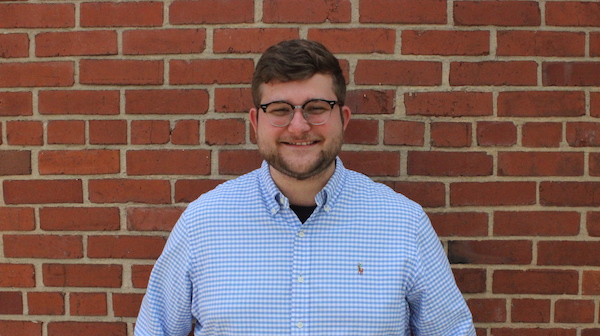
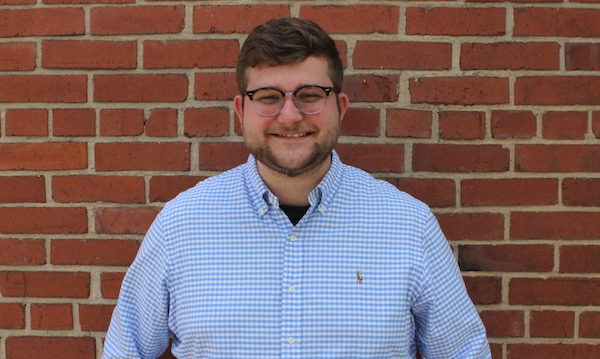
updates about page content

diff --git a/core/templates/about.html b/core/templates/about.html
@@ -46,79 +46,56 @@
 </div>
 <div class="flex">
     <div class="headshot-box">
-        <div class="tc black">
+        <div class="tc black mb4">
             <div class="body-headers mt4">Bailey Costin</div>
             <p class="sub-header i">Political science nerd, outdoors enthusiast, software developer</p>
-            <p class="aboutbody-content pr5 pl5">Lorem ipsum dolor sit amet, his ei modo unum liber. Cu modo invidunt eos, per alienum laboramus cu, an per probo omnes saepe. Te quas admodum patrioque qui, nibh autem per at, te vero sonet utinam qui. Et est timeam impedit fuisset. Falli tritani accommodare sed id, velit impedit vel ex. Cu vim indoctum corrumpit constituto, euismod recteque consequat eum et. Dicunt principes urbanitas sed ut, an impedit suscipit vis, ad pri adhuc veniam.</p>
-            <p class="aboutbody-content i">Only album I'd take to a deserted island:</p>
-            <p class="bio-answer">good kid, m.A.A.d city - Kendrick Lamar</p>
-            <p class="aboutbody-content i">Prefers coffee:</p>
-            <p class="bio-answer">black</p>
-            <p class="body-content i">Favorite president:</p>
-            <p class="bio-answer">Theodore Roosevelt </p>
+            <p class="aboutbody-content pr5 pl5">Bailey is graduate of UNC Chapel Hill and Momentum’s full-time immersive program. Prior to enrolling in Momentum, he was a senior paralegal at a law firm in Chapel Hill. He was drawn to programming because he has a passion for problem solving and wanted to enhance his ability to make a real-world impact. When he is not in front of his computer, he enjoys spending his time traveling and hiking.</p>
             <a href="https://github.com/bdcostin"><img class="github" src="{% static '/img/GitHub.png' %}" alt="An image of the GitHub logo."/></a>
             <a href="https://www.linkedin.com/in/bailey-costin-7745b8179/"><img class="linked-in" src="{% static '/img/linked-in.png' %}" alt="An image of the Linked-In logo."/></a>
         </div>
     </div>
     <div class="headshot project" id="project01">
-        <a href="https://www.linkedin.com/in/bailey-costin-7745b8179/"><img src="{% static '/img/Bailey.jpg' %}" alt="An image of Bailey Costin."/></a>
+        <a href="https://www.linkedin.com/in/bailey-costin-7745b8179/"><img src="{% static '/img/bailey2.jpg' %}" alt="An image of Bailey Costin."/></a>
     </div>
 </div>
 <div class="flex">
     <div class="headshot project" id="project02">
-        <a href="https://www.linkedin.com/in/david-kirk-525813181/"><img src="{% static '/img/david-kirk.jpg' %}" alt="An image of David Kirk."/></a>
+        <a href="https://www.linkedin.com/in/david-kirk-525813181/"><img src="{% static '/img/david2.jpg' %}" alt="An image of David Kirk."/></a>
     </div>
     <div class="headshot-box tc black">
-        <div class="body-headers mt4">David Kirk</div>
+        <div class="body-headers mt4 mb4">David Kirk</div>
         <p class="sub-header i">software developer, musician, cook, husband.</p>
-        <p class="bio-answer pr5 pl5">David is a Jr web developer based out of durham NC, he started his journey in coding in february 2019 and is a recent graduate of Momentum learning, a immersive bootcamp style course where he studied HTML, CSS, Javascript, Python, Django and PostGRES. Previously he worked at whole foods for five years and before that cooked in several restaurants around the state. He is a avid digital muscician and husband whos favorite pastime is hanging out with his wife and two dogs. </p>
-            <p class="aboutbody-content i">Only album I'd take to a deserted island:</p>
-            <p class="bio-answer">Kid A by Radiohead</p>
-            <p class="aboutbody-content i">Prefers coffee:</p>
-            <p class="bio-answer">Cream and coconut</p>
-            <p class="aboutbody-content i">Favorite Board game:</p>
-            <p class="bio-answer">Catan</p>
+        <p class="bio-answer pr5 pl5">David is a Jr web developer based out of Durham NC, he started his journey in coding in February 2019 and is a recent graduate of Momentum learning, a immersive bootcamp style course where he studied HTML, CSS, Javascript, Python, Django and PostGRES. Previously he worked at whole foods for five years and before that cooked in several restaurants around the state. He is a avid digital musician and husband whos favorite pastime is hanging out with his wife and two dogs. </p>
+        <div class="mb4">
             <a href="https://github.com/davidiskirk"><img class="github" src="{% static '/img/GitHub.png' %}" alt="An image of the GitHub logo."/></a>
             <a href="https://www.linkedin.com/in/david-kirk-525813181/"><img class="linked-in" src="{% static '/img/linked-in.png' %}" alt="An image of the Linked-In logo."/></a>
+        </div>
     </div>
 </div>
 <div class="flex">
     <div class="headshot-box tc black">
         <div class="body-headers mt4">Daniel Peterson</div>
-        <p class="sub-header i">, , software developer</p>
-        <p class="bio-answer pr5 pl5">Lorem ipsum dolor sit amet, his ei modo unum liber. Cu modo invidunt eos, per alienum laboramus cu, an per probo omnes saepe. Te quas admodum patrioque qui, nibh autem per at, te vero sonet utinam qui. Et est timeam impedit fuisset. Falli tritani accommodare sed id, velit impedit vel ex. Cu vim indoctum corrumpit constituto, euismod recteque consequat eum et. Dicunt principes urbanitas sed ut, an impedit suscipit vis, ad pri adhuc veniam.</p>
-            <p class="aboutbody-content i">Only album I'd take to a deserted island:</p>
-            <p class="aboutbody-content i">Only album I'd take to a deserted island:</p>
-            <p class="bio-answer"></p>
-            <p class="aboutbody-content i">Prefers coffee:</p>
-            <p class="bio-answer"></p>
-            <p class="aboutbody-content i">Favorite president:</p>
-            <p class="bio-answer"></p>
-            <a href="https://github.com/dmpeterson317"><img class="github" src="{% static '/img/GitHub.png' %}" alt="An image of the GitHub logo."/></a>
-            <a href="https://www.linkedin.com/in/daniel-peterson-a66330181/"><img class="linked-in" src="{% static '/img/linked-in.png' %}" alt="An image of the Linked-In logo."/></a>
+        <p class="sub-header i">software developer</p>
+        <p class="bio-answer pr5 pl5">Lorem ipsum dolor sit amet, his ei modo unum liber. Cu modo invidunt eos, per alienum laboramus cu, an per probo omnes saepe. Te quas admodum patrioque qui, nibh autem per at, te vero sonet utinam qui. Et est timeam impedit fuisset. Falli tritani accommodare sed id, velit impedit vel ex. Cu vim indoctum corrumpit constituto, euismod recteque consequat eum et. Dicunt principes urbanitas sed ut, an impedit suscipit vis, ad pri adhuc veniam.</p>   
+        <a href="https://github.com/dmpeterson317"><img class="github" src="{% static '/img/GitHub.png' %}" alt="An image of the GitHub logo."/></a>
+        <a href="https://www.linkedin.com/in/daniel-peterson-a66330181/"><img class="linked-in" src="{% static '/img/linked-in.png' %}" alt="An image of the Linked-In logo."/></a>
     </div>
     <div class="headshot project" id="project03">
-        <a href="https://www.linkedin.com/in/daniel-peterson-a66330181/"><img src="{% static '/img/Dan.JPG' %}" alt="An image of Daniel Peterson."/></a>
+        <a href="https://www.linkedin.com/in/daniel-peterson-a66330181/"><img src="{% static '/img/dan2.JPG' %}" alt="An image of Daniel Peterson."/></a>
     </div>
 </div>
 
 
 <div class="flex">
     <div class="headshot project" id="project05">
-        <a href="//"><img src="{% static '/img/dennis.JPG' %}" alt="An image of Dennis Dinwiddy."/></a>
+        <a href="//"><img src="{% static '/img/dennis2.JPG' %}" alt="An image of Dennis Dinwiddy."/></a>
     </div>
     <div class="headshot-box tc black">
         <div class="body-headers mt4">Dennis Dinwiddie</div>
         <p class="sub-header i">software developer</p>
-        <p class="bio-answer pr5 pl5">Lorem ipsum dolor sit amet, his ei modo unum liber. Cu modo invidunt eos, per alienum laboramus cu, an per probo omnes saepe. Te quas admodum patrioque qui, nibh autem per at, te vero sonet utinam qui. Et est timeam impedit fuisset. Falli tritani accommodare sed id, velit impedit vel ex. Cu vim indoctum corrumpit constituto, euismod recteque consequat eum et. Dicunt principes urbanitas sed ut, an impedit suscipit vis, ad pri adhuc veniam</p>
-            <p class="aboutbody-content i">Only album I'd take to a deserted island:</p>
-            <p class="bio-answer">Currents by Tame Impala</p>
-            <p class="aboutbody-content i">Prefers coffee:</p>
-            <p class="bio-answer">In any form.</p>
-            <p class="aboutbody-content i">Favorite president:</p>
-            <p class="bio-answer">Dick Cheney</p>
-            <a href="https://github.com/ddinwiddie"><img class="github" src="{% static '/img/GitHub.png' %}" alt="An image of the GitHub logo."/></a>
-            <a href="https://www.linkedin.com/in/dennis-dinwiddie-299366181/"><img class="linked-in" src="{% static '/img/linked-in.png' %}" alt="An image of the Linked-In logo."/></a>
+        <p class="bio-answer pr5 pl5">Dennis is a Jr web developer that studied programming at Momentum Learning, and focuses in Python, Django, Postgresql, and any back-end technologies; as well as Javascript, HTML, and CSS. He has previously worked in sales positions and wanted to explore his dream of becoming a developer. He enjoys all things technology - primarily working on computers and keyboards in his spare time.</p>
+        <a href="https://github.com/ddinwiddie"><img class="github" src="{% static '/img/GitHub.png' %}" alt="An image of the GitHub logo."/></a>
+        <a href="https://www.linkedin.com/in/dennis-dinwiddie-299366181/"><img class="linked-in" src="{% static '/img/linked-in.png' %}" alt="An image of the Linked-In logo."/></a>
     </div>
 </div>
 </div>
